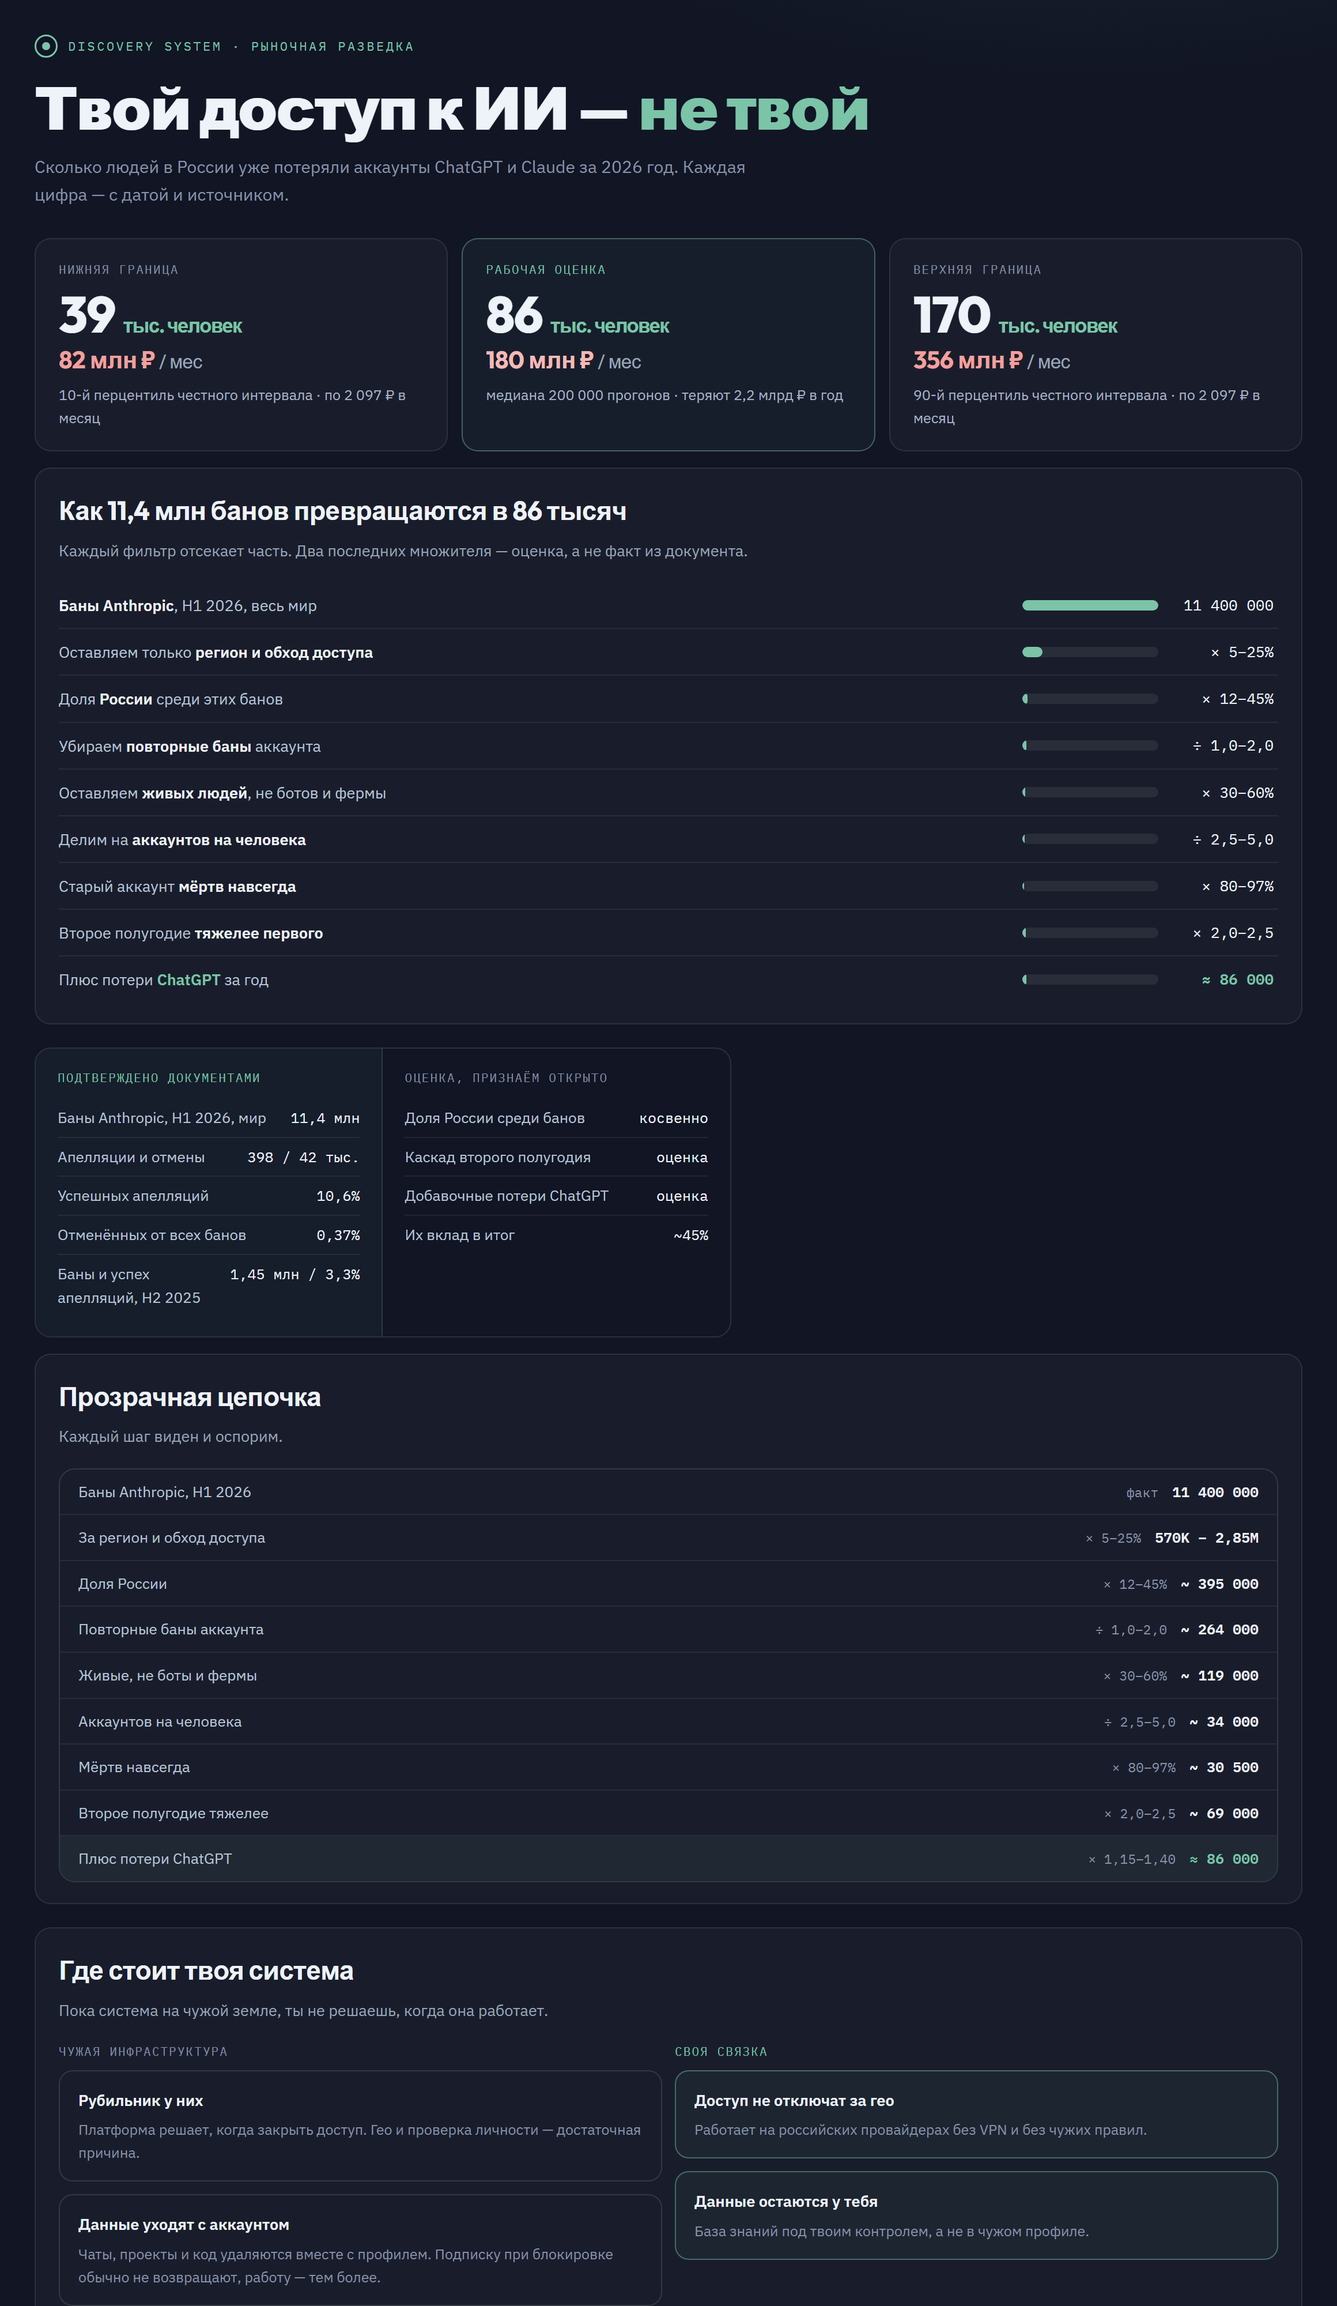
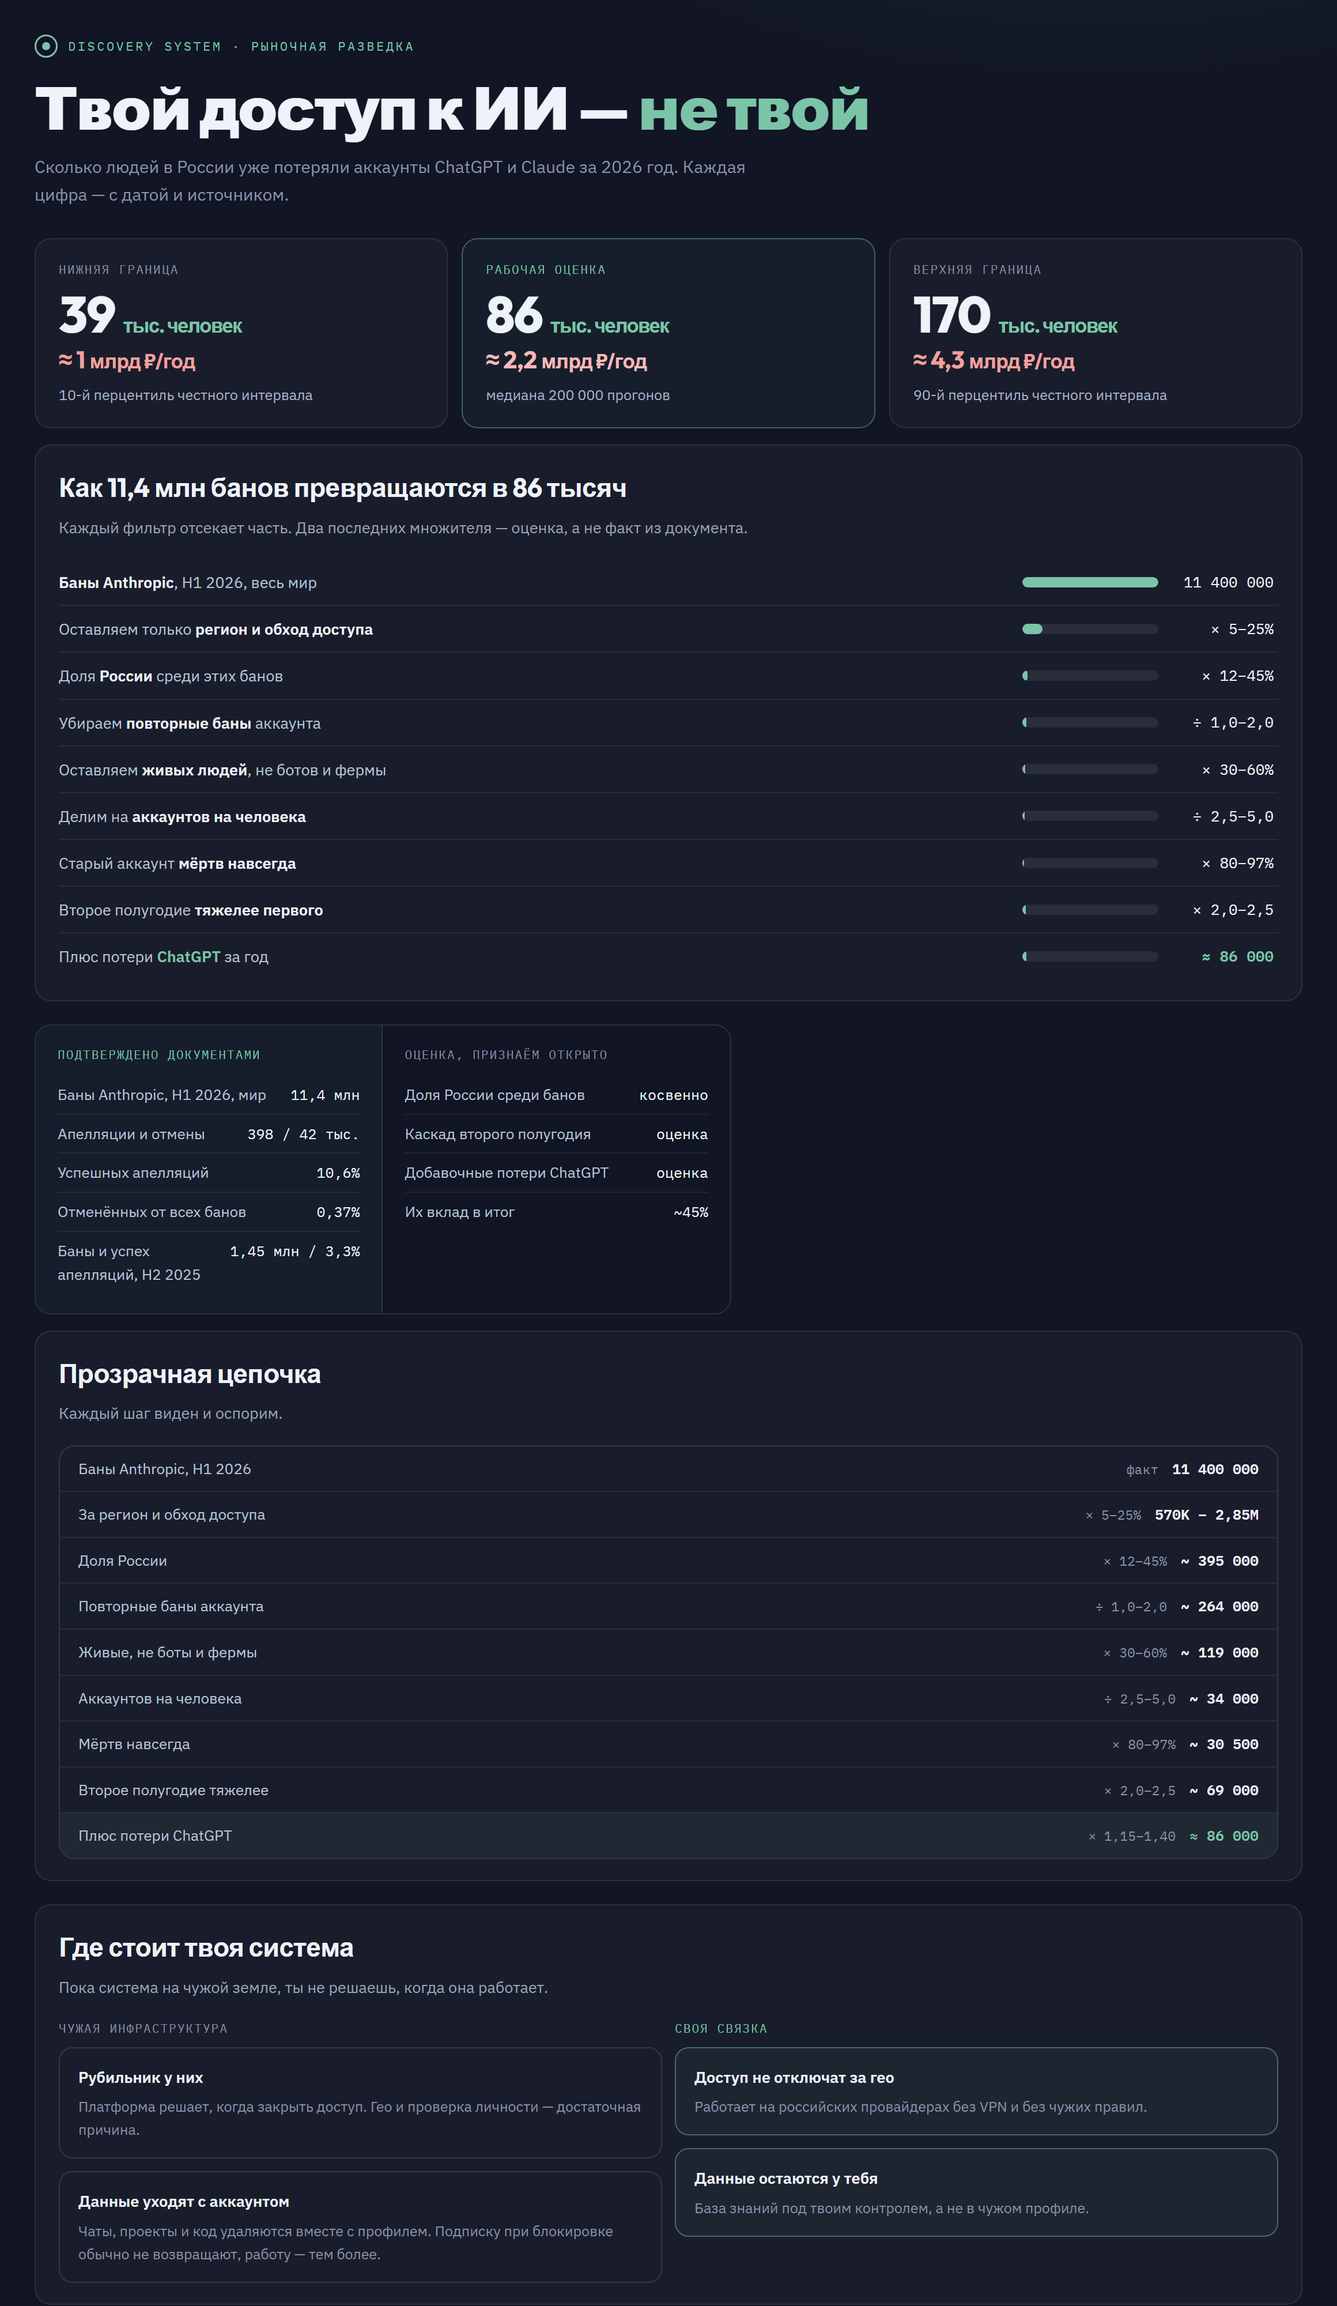
инфографика: потери в годовом выражении (млрд), подписи короче

diff --git a/lost-accounts-infographic.html b/lost-accounts-infographic.html
@@ -170,17 +170,17 @@ h1,h2{text-wrap:balance}p,li{text-wrap:pretty}
 </header>
 
 <div class="grid trio" id="hero">
-<div class="card rv"><div class="k">нижняя граница</div><div class="v"><span data-count="39">39</span> <small>тыс. человек</small></div><div class="money"><span data-count="82">82</span> млн ₽ <span style="font-size:.75em;color:#9aa5b8;font-weight:400">/ мес</span></div><div class="c">10-й перцентиль честного интервала · по 2 097 ₽ в месяц</div></div>
-<div class="card hi rv"><div class="k acc">рабочая оценка</div><div class="v"><span data-count="86">86</span> <small>тыс. человек</small></div><div class="money acc"><span data-count="180">180</span> млн ₽ <span style="font-size:.75em;color:#9aa5b8;font-weight:400">/ мес</span></div><div class="c">медиана 200 000 прогонов · теряют 2,2 млрд ₽ в год</div></div>
-<div class="card rv"><div class="k">верхняя граница</div><div class="v"><span data-count="170">170</span> <small>тыс. человек</small></div><div class="money"><span data-count="356">356</span> млн ₽ <span style="font-size:.75em;color:#9aa5b8;font-weight:400">/ мес</span></div><div class="c">90-й перцентиль честного интервала · по 2 097 ₽ в месяц</div></div>
+<div class="card rv"><div class="k">нижняя граница</div><div class="v"><span data-count="39">39</span> <small>тыс. человек</small></div><div class="money">≈ 1 <small>млрд ₽/год</small></div><div class="c">10-й перцентиль честного интервала</div></div>
+<div class="card hi rv"><div class="k acc">рабочая оценка</div><div class="v"><span data-count="86">86</span> <small>тыс. человек</small></div><div class="money acc">≈ 2,2 <small>млрд ₽/год</small></div><div class="c">медиана 200 000 прогонов</div></div>
+<div class="card rv"><div class="k">верхняя граница</div><div class="v"><span data-count="170">170</span> <small>тыс. человек</small></div><div class="money">≈ 4,3 <small>млрд ₽/год</small></div><div class="c">90-й перцентиль честного интервала</div></div>
 </div>
-<div class="grid one"><div class="loss-line rv">82–356 млн ₽ в месяц уходят навсегда: подписку возвращают не всегда — по условиям Anthropic при блокировке рефанда нет, работу и данные не возместит никто.</div></div>
+<div class="grid one"><div class="loss-line rv">1–4,3 млрд ₽ в год платят российские пользователи за аккаунты, которые сгорают без предупреждения. По условиям Anthropic рефанда при блокировке нет — работу и данные не возместит никто.</div></div>
 
 <div class="grid one">
 <div class="card rv">
 <div class="k">интерактив · воронка</div>
 <h2>Как 11,4 млн банов превращаются в 86 тысяч</h2>
-<p class="sub">Потяни ползунок или нажми на строку — увидишь, где оседает число. Каждый фильтр отсекает часть.</p>
+<p class="sub">Тяни ползунок или жми на строку — где оседает число.</p>
 <div class="funnel" id="funnel"></div>
 <input class="slider" id="fs" type="range" min="0" max="8" value="8" aria-label="Стадия воронки"/>
 <div class="sl-hint"><span>старт · все баны</span><span>итог · живые люди в России</span></div>
@@ -192,7 +192,7 @@ h1,h2{text-wrap:balance}p,li{text-wrap:pretty}
 <div class="card rv">
 <div class="k">интерактив · проверка</div>
 <h2>Заголовки против расчёта</h2>
-<p class="sub">Собери сам: потяни ползунок вправо, чтобы стереть громкую цифру и увидеть, что за ней.</p>
+<p class="sub">Потяни вправо — сотри заголовок, увидь расчёт.</p>
 <div class="wipe" id="wide"><div class="p"><div class="lab">так пишут в заголовках</div><div class="big">1,5 млн</div><div class="d">глобальные баны Anthropic за полгода, подписанные «россияне»</div></div>
 <div class="top"><div class="p"><div class="lab">так посчитали мы</div><div class="big">39–170 тыс.</div><div class="d">честный интервал, рабочая оценка 86 тыс.</div></div></div></div>
 <div class="wctl"><span>заголовки</span><input id="ws" type="range" min="0" max="100" value="50" aria-label="Сравнение оценок"/><span>расчёт</span></div>
@@ -203,7 +203,7 @@ h1,h2{text-wrap:balance}p,li{text-wrap:pretty}
 <div class="card rv">
 <div class="k">честность метода</div>
 <h2>Что мы знаем точно, а что считаем</h2>
-<p class="sub">Мы не смешиваем факт и оценку — поэтому и показываем их отдельно.</p>
+<p class="sub">Факт и оценка — раздельно.</p>
 <div class="split">
 <div class="half"><div class="hh">подтверждено документами</div><ul>
 <li><span>Баны Anthropic, H1 2026, весь мир</span><span class="b">11,4 млн</span></li>
@@ -226,7 +226,7 @@ h1,h2{text-wrap:balance}p,li{text-wrap:pretty}
 <div class="card rv">
 <div class="k">интерактив · таймлайн</div>
 <h2>Как это происходило</h2>
-<p class="sub">Нажми на дату — раскроется деталь волны.</p>
+<p class="sub">Клик по дате — деталь волны.</p>
 <div class="tl" id="tl">
 <div class="it"><button aria-expanded="false"><span class="dt">08.05.2026</span><span class="tt">Anthropic массово блокирует аккаунты из России</span><span class="ar">›</span></button><div class="dtl"><p>Сотни пострадавших по данным Baza. Профили удаляют вместе с данными; единичные возвраты за подписку — жест платформы, по условиям сервиса при блокировке рефанда нет. Источник: RBC, CNews.</p></div></div>
 <div class="it"><button aria-expanded="false"><span class="dt">21.05.2026</span><span class="tt">OpenAI бьёт по серому рынку перепродажи</span><span class="ar">›</span></button><div class="dtl"><p>Усиленная защита, цены у перекупов выросли. Источник: Газета.ру.</p></div></div>
@@ -239,7 +239,7 @@ h1,h2{text-wrap:balance}p,li{text-wrap:pretty}
 <div class="card rv">
 <div class="k">уравнение</div>
 <h2>Прозрачная цепочка</h2>
-<p class="sub">Каждый шаг виден и оспорим.</p>
+<p class="sub">Каждый шаг оспорим.</p>
 <div class="eq">
 <div class="er"><span>Баны Anthropic, H1 2026</span><span class="f">факт</span><span class="n">11 400 000</span></div>
 <div class="er"><span>За регион и обход доступа</span><span class="f">× 5–25%</span><span class="n">570K – 2,85M</span></div>
@@ -258,7 +258,7 @@ h1,h2{text-wrap:balance}p,li{text-wrap:pretty}
 <div class="card rv">
 <div class="k">интерактив · выбор</div>
 <h2>Где стоит твоя система</h2>
-<p class="sub">Переключи и посмотри, что именно ты теряешь или сохраняешь.</p>
+<p class="sub">Что теряешь и что сохраняешь.</p>
 <div class="sw" role="group" aria-label="Сравнение инфраструктур">
 <button data-c="foreign" aria-pressed="false">чужая</button>
 <button data-c="mine" aria-pressed="false">своя</button>
@@ -279,7 +279,7 @@ h1,h2{text-wrap:balance}p,li{text-wrap:pretty}
 <div class="card rv" id="personal">
 <div class="k">интерактив · личный счёт</div>
 <h2>Сколько в этом твоих денег</h2>
-<p class="sub">Это исследование про рынок. Твой счёт считается за одну цифру — той, что ты платишь каждый месяц.</p>
+<p class="sub">Одна цифра — та, что платишь каждый месяц.</p>
 <div class="ms-row">
 <input class="ms-input" id="ms-in" type="number" min="0" step="100" value="2000" inputmode="numeric" aria-label="Сколько ты платишь за ИИ-сервисы в месяц"/>
 <span class="ms-per">₽ в месяц за ChatGPT / Claude / прочее</span>

diff --git a/lost-accounts-poster.html b/lost-accounts-poster.html
@@ -80,9 +80,9 @@ h2{font-family:'Outfit',sans-serif;font-weight:700;font-size:23px;color:#eef2f9;
 <p class="sub">Сколько людей в России уже потеряли аккаунты ChatGPT и Claude за 2026 год. Каждая цифра — с датой и источником.</p>
 
 <div class="row3">
-<div class="card"><div class="k">нижняя граница</div><div class="v">39 <small>тыс. человек</small></div><div class="money">82 млн ₽ <span style="font-size:.78em;color:#9aa5b8;font-weight:400">/ мес</span></div><div class="c">10-й перцентиль честного интервала · по 2 097 ₽ в месяц</div></div>
-<div class="card hi"><div class="k a">рабочая оценка</div><div class="v">86 <small>тыс. человек</small></div><div class="money acc">180 млн ₽ <span style="font-size:.78em;color:#9aa5b8;font-weight:400">/ мес</span></div><div class="c">медиана 200 000 прогонов · теряют 2,2 млрд ₽ в год</div></div>
-<div class="card"><div class="k">верхняя граница</div><div class="v">170 <small>тыс. человек</small></div><div class="money">356 млн ₽ <span style="font-size:.78em;color:#9aa5b8;font-weight:400">/ мес</span></div><div class="c">90-й перцентиль честного интервала · по 2 097 ₽ в месяц</div></div>
+<div class="card"><div class="k">нижняя граница</div><div class="v">39 <small>тыс. человек</small></div><div class="money">≈ 1 <small>млрд ₽/год</small></div><div class="c">10-й перцентиль честного интервала</div></div>
+<div class="card hi"><div class="k a">рабочая оценка</div><div class="v">86 <small>тыс. человек</small></div><div class="money acc">≈ 2,2 <small>млрд ₽/год</small></div><div class="c">медиана 200 000 прогонов</div></div>
+<div class="card"><div class="k">верхняя граница</div><div class="v">170 <small>тыс. человек</small></div><div class="money">≈ 4,3 <small>млрд ₽/год</small></div><div class="c">90-й перцентиль честного интервала</div></div>
 </div>
 
 <div class="card wide">
@@ -151,7 +151,7 @@ h2{font-family:'Outfit',sans-serif;font-weight:700;font-size:23px;color:#eef2f9;
 </div>
 
 <div class="card wide ctabox">
-<p class="ctap">82–356 млн ₽ в месяц уходят навсегда: по условиям Anthropic при блокировке рефанда нет, работу и данные не возместит никто.</p>
+<p class="ctap">1–4,3 млрд ₽ в год за аккаунты, которые сгорают без предупреждения. Рефанда по условиям Anthropic нет — не возместит никто.</p>
 <div class="ctab">Узнать стоимость ИИ-агента, который не исчезнет как Claude/ChatGPT ↗</div>
 </div>
 
